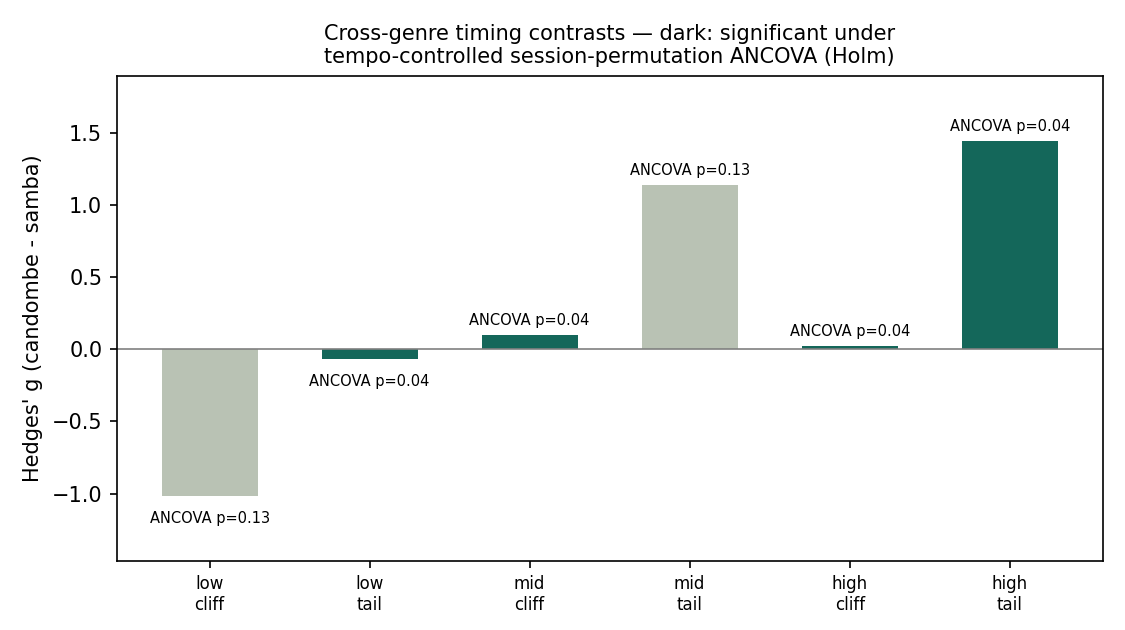
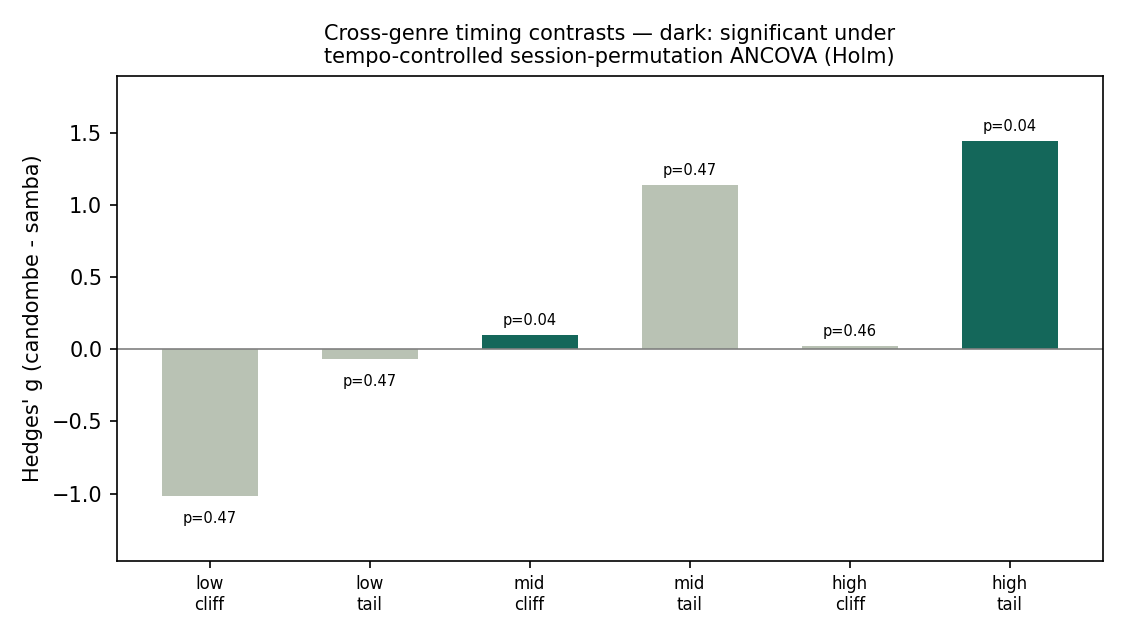
Robustness additions: statistic multiverse for the permutation ANCOVA (raw/CR1/aggregated/HC3 pivots), amplitude-vs-deviation bounds

diff --git a/scripts/05_stats.py b/scripts/05_stats.py
@@ -121,16 +121,77 @@ def session_perm_p(values: pd.Series, sessions: pd.Series, genres: pd.Series,
         if bpm is None:
             sm = df.groupby("s").v.mean()
             return sm[~sm.index.isin(samba_set)].mean() - sm[sm.index.isin(samba_set)].mean()
+        y = df.v.to_numpy(float)
         x = np.column_stack([
             np.ones(len(df)), lab.to_numpy(float), df.bpm.to_numpy(float)
         ])
-        beta, *_ = np.linalg.lstsq(x, df.v.to_numpy(float), rcond=None)
+        beta, *_ = np.linalg.lstsq(x, y, rcond=None)
         return -beta[1]  # candombe minus samba
 
     obs = stat(true_samba)
     perms = [stat(frozenset(c)) for c in combinations(sess, k)]
     p = float(np.mean([abs(s) >= abs(obs) - 1e-12 for s in perms]))
     return float(obs), p
+
+
+def ancova_multiverse(values, sessions, genres, bpm) -> dict:
+    """Exact session-label permutation ANCOVA under four statistic choices.
+
+    All four are exact tests of the sharp null (session-label
+    exchangeability); they differ as PIVOTS for the clustered design:
+      coef — raw track-level genre coefficient (the pre-registered choice);
+      cr1  — coefficient / CR1 cluster-robust SE (clusters = sessions);
+      agg  — genre coefficient of the session-aggregated regression
+             (one observation per session; respects clustering by design);
+      hc3  — coefficient / HC3 SE (assumes independent observations —
+             mismatched to this clustered design; completeness only).
+    Returns the observed raw coefficient (% of beat) and the four p values.
+    """
+    df = pd.DataFrame({"v": np.asarray(values, float),
+                       "s": np.asarray(sessions),
+                       "g": np.asarray(genres),
+                       "bpm": np.asarray(bpm, float)}).dropna()
+    sess = sorted(df.s.unique())
+    true_samba = frozenset(df.loc[df.g == "samba", "s"].unique())
+
+    def fit(lab):
+        y = df.v.to_numpy()
+        x = np.column_stack([np.ones(len(df)), lab, df.bpm.to_numpy()])
+        xtx = np.linalg.inv(x.T @ x)
+        b = xtx @ x.T @ y
+        e = y - x @ b
+        h = np.einsum("ij,jk,ik->i", x, xtx, x)
+        hc3 = xtx @ (x.T * (e / np.clip(1 - h, 1e-8, None)) ** 2) @ x @ xtx
+        meat = np.zeros((3, 3))
+        for s_id in df.s.unique():
+            m = (df.s == s_id).to_numpy()
+            u = x[m].T @ e[m]
+            meat += np.outer(u, u)
+        K, n = df.s.nunique(), len(df)
+        cr1 = xtx @ meat @ xtx * (K / (K - 1)) * ((n - 1) / (n - 3))
+        return (b[1], b[1] / np.sqrt(max(hc3[1, 1], 1e-12)),
+                b[1] / np.sqrt(max(cr1[1, 1], 1e-12)))
+
+    def agg_fit(ss):
+        a = df.groupby("s").agg(v=("v", "mean"), bpm=("bpm", "mean"))
+        a["l"] = [float(s in ss) for s in a.index]
+        x = np.column_stack([np.ones(len(a)), a.l.to_numpy(), a.bpm.to_numpy()])
+        b, *_ = np.linalg.lstsq(x, a.v.to_numpy(), rcond=None)
+        return b[1]
+
+    obs, nulls = None, {k: [] for k in ["coef", "hc3", "cr1", "agg"]}
+    for c in combinations(sess, len(true_samba)):
+        ss = frozenset(c)
+        lab = df.s.isin(ss).to_numpy(float)
+        co, t3, tc = fit(lab)
+        row = dict(coef=co, hc3=t3, cr1=tc, agg=agg_fit(ss))
+        if ss == true_samba:
+            obs = row
+        for k in nulls:
+            nulls[k].append(row[k])
+    p = {f"p_{k}": float(np.mean([abs(v) >= abs(obs[k]) - 1e-12 for v in nulls[k]]))
+         for k in nulls}
+    return dict(stat=-obs["coef"], **p)
 
 
 def holm(pvals: list[float]) -> list[float]:
@@ -178,19 +239,33 @@ def main() -> None:
 
     # ---------------- A2. primary tempo control: permutation ANCOVA ---------
     print("\nA2. TEMPO-CONTROLLED cross-genre (permutation ANCOVA: value ~ genre + BPM)")
+    print("    Multiverse of permuted statistics — all exact under session-label")
+    print("    exchangeability; they differ as pivots for the clustered design:")
+    print("    coef  = raw track-level genre coefficient (pre-registered)")
+    print("    CR1-t = coefficient / cluster-robust SE (clusters = sessions)")
+    print("    agg   = coefficient of the session-aggregated regression (11 obs)")
+    print("    [HC3-t, independence-assuming, is reported for completeness only:")
+    print("     it is mismatched to the clustered design]")
     a2_tests = []
     for reg, band_c, band_s in REGISTER_PAIRS:
         both = pd.concat([pt_c[pt_c.band == band_c], pt_b[pt_b.band == band_s]])
         for cname, cf in CONTRASTS.items():
-            v = cf(both)
-            obs, p = session_perm_p(v, both.session, both.genre, bpm=both.mean_bpm)
+            r = ancova_multiverse(cf(both), both.session, both.genre, both.mean_bpm)
             a2_tests.append(dict(section="cross_genre_ancova", register=reg,
-                                 contrast=cname, stat=obs, perm_p=p))
-    for t, adj in zip(a2_tests, holm([t["perm_p"] for t in a2_tests])):
-        t["holm_p"] = adj
+                                 contrast=cname, **r))
+    for key in ["p_coef", "p_cr1", "p_agg", "p_hc3"]:
+        adj = holm([t[key] for t in a2_tests])
+        for t, a in zip(a2_tests, adj):
+            t["holm_" + key[2:]] = a
+    for t in a2_tests:
+        t["robust_core"] = all(t[f"holm_{k}"] < 0.05 for k in ["coef", "cr1", "agg"])
         rows.append(t)
-        print(f"  {t['register']:4s} {t['contrast']:5s}: genre coef={t['stat']:+.2f}%  "
-              f"perm p={t['perm_p']:.3f}  Holm p={adj:.3f} {'*' if adj < 0.05 else 'ns'}")
+        core = " CORE" if t["robust_core"] else ""
+        print(f"  {t['register']:4s} {t['contrast']:5s}: coef={t['stat']:+.2f}%  "
+              f"Holm p (coef/CR1/agg/HC3) = {t['holm_coef']:.3f}/{t['holm_cr1']:.3f}/"
+              f"{t['holm_agg']:.3f}/{t['holm_hc3']:.3f}{core}")
+    n_core = sum(t["robust_core"] for t in a2_tests)
+    print(f"  robust core (Holm<0.05 under coef AND CR1 AND agg): {n_core}/6")
 
     # sensitivity (labeled, not confirmatory): BPM-overlap subset composition
     lo = max(pt_c.mean_bpm.min(), pt_b.mean_bpm.min())
@@ -302,9 +377,10 @@ def main() -> None:
     ea = {(r["register"], r["contrast"]): r for r in rows
           if r["section"] == "cross_genre_ancova"}
     x = np.arange(len(er))
-    # color = the PRIMARY inference (tempo-controlled permutation ANCOVA)
+    # dark = robust core: Holm-significant under ALL cluster-respecting
+    # permuted statistics (raw coef, CR1-studentized, session-aggregated)
     colors = [
-        "#14675A" if ea[(r["register"], r["contrast"])]["holm_p"] < 0.05 else "#B9C2B4"
+        "#14675A" if ea[(r["register"], r["contrast"])]["robust_core"] else "#B9C2B4"
         for r in er
     ]
     ax.bar(x, [r["hedges_g"] for r in er], color=colors, width=0.6)
@@ -312,7 +388,7 @@ def main() -> None:
         a = ea[(r["register"], r["contrast"])]
         offset = 0.07 if r["hedges_g"] >= 0 else -0.19
         ax.text(i, r["hedges_g"] + offset,
-                f"ANCOVA p={a['holm_p']:.2f}", ha="center", fontsize=7)
+                f"p={a['holm_cr1']:.2f}", ha="center", fontsize=7)
     ax.axhline(0, color="gray", lw=0.8)
     ax.set_xticks(x)
     ax.set_xticklabels([f"{r['register']}\n{r['contrast']}" for r in er], fontsize=8)

diff --git a/scripts/07_paper_figures.py b/scripts/07_paper_figures.py
@@ -82,12 +82,12 @@ def fig_effects():
     x = np.arange(len(er))
     colors, labels = [], []
     for r in er.itertuples():
-        hp = ea.loc[(r.register, r.contrast), "holm_p"]
-        colors.append("#14675A" if hp < 0.05 else "#C4CBBF")
+        core = bool(ea.loc[(r.register, r.contrast), "robust_core"])
+        colors.append("#14675A" if core else "#C4CBBF")
         labels.append(f"{r.register}\n{r.contrast}")
     ax.bar(x, er.hedges_g, color=colors, width=0.62)
     for i, r in enumerate(er.itertuples()):
-        hp = ea.loc[(r.register, r.contrast), "holm_p"]
+        hp = ea.loc[(r.register, r.contrast), "holm_cr1"]
         off = 0.08 if r.hedges_g >= 0 else -0.22
         ax.text(i, r.hedges_g + off, f"{hp:.2f}", ha="center", fontsize=7)
     ax.axhline(0, color="gray", lw=0.7)
